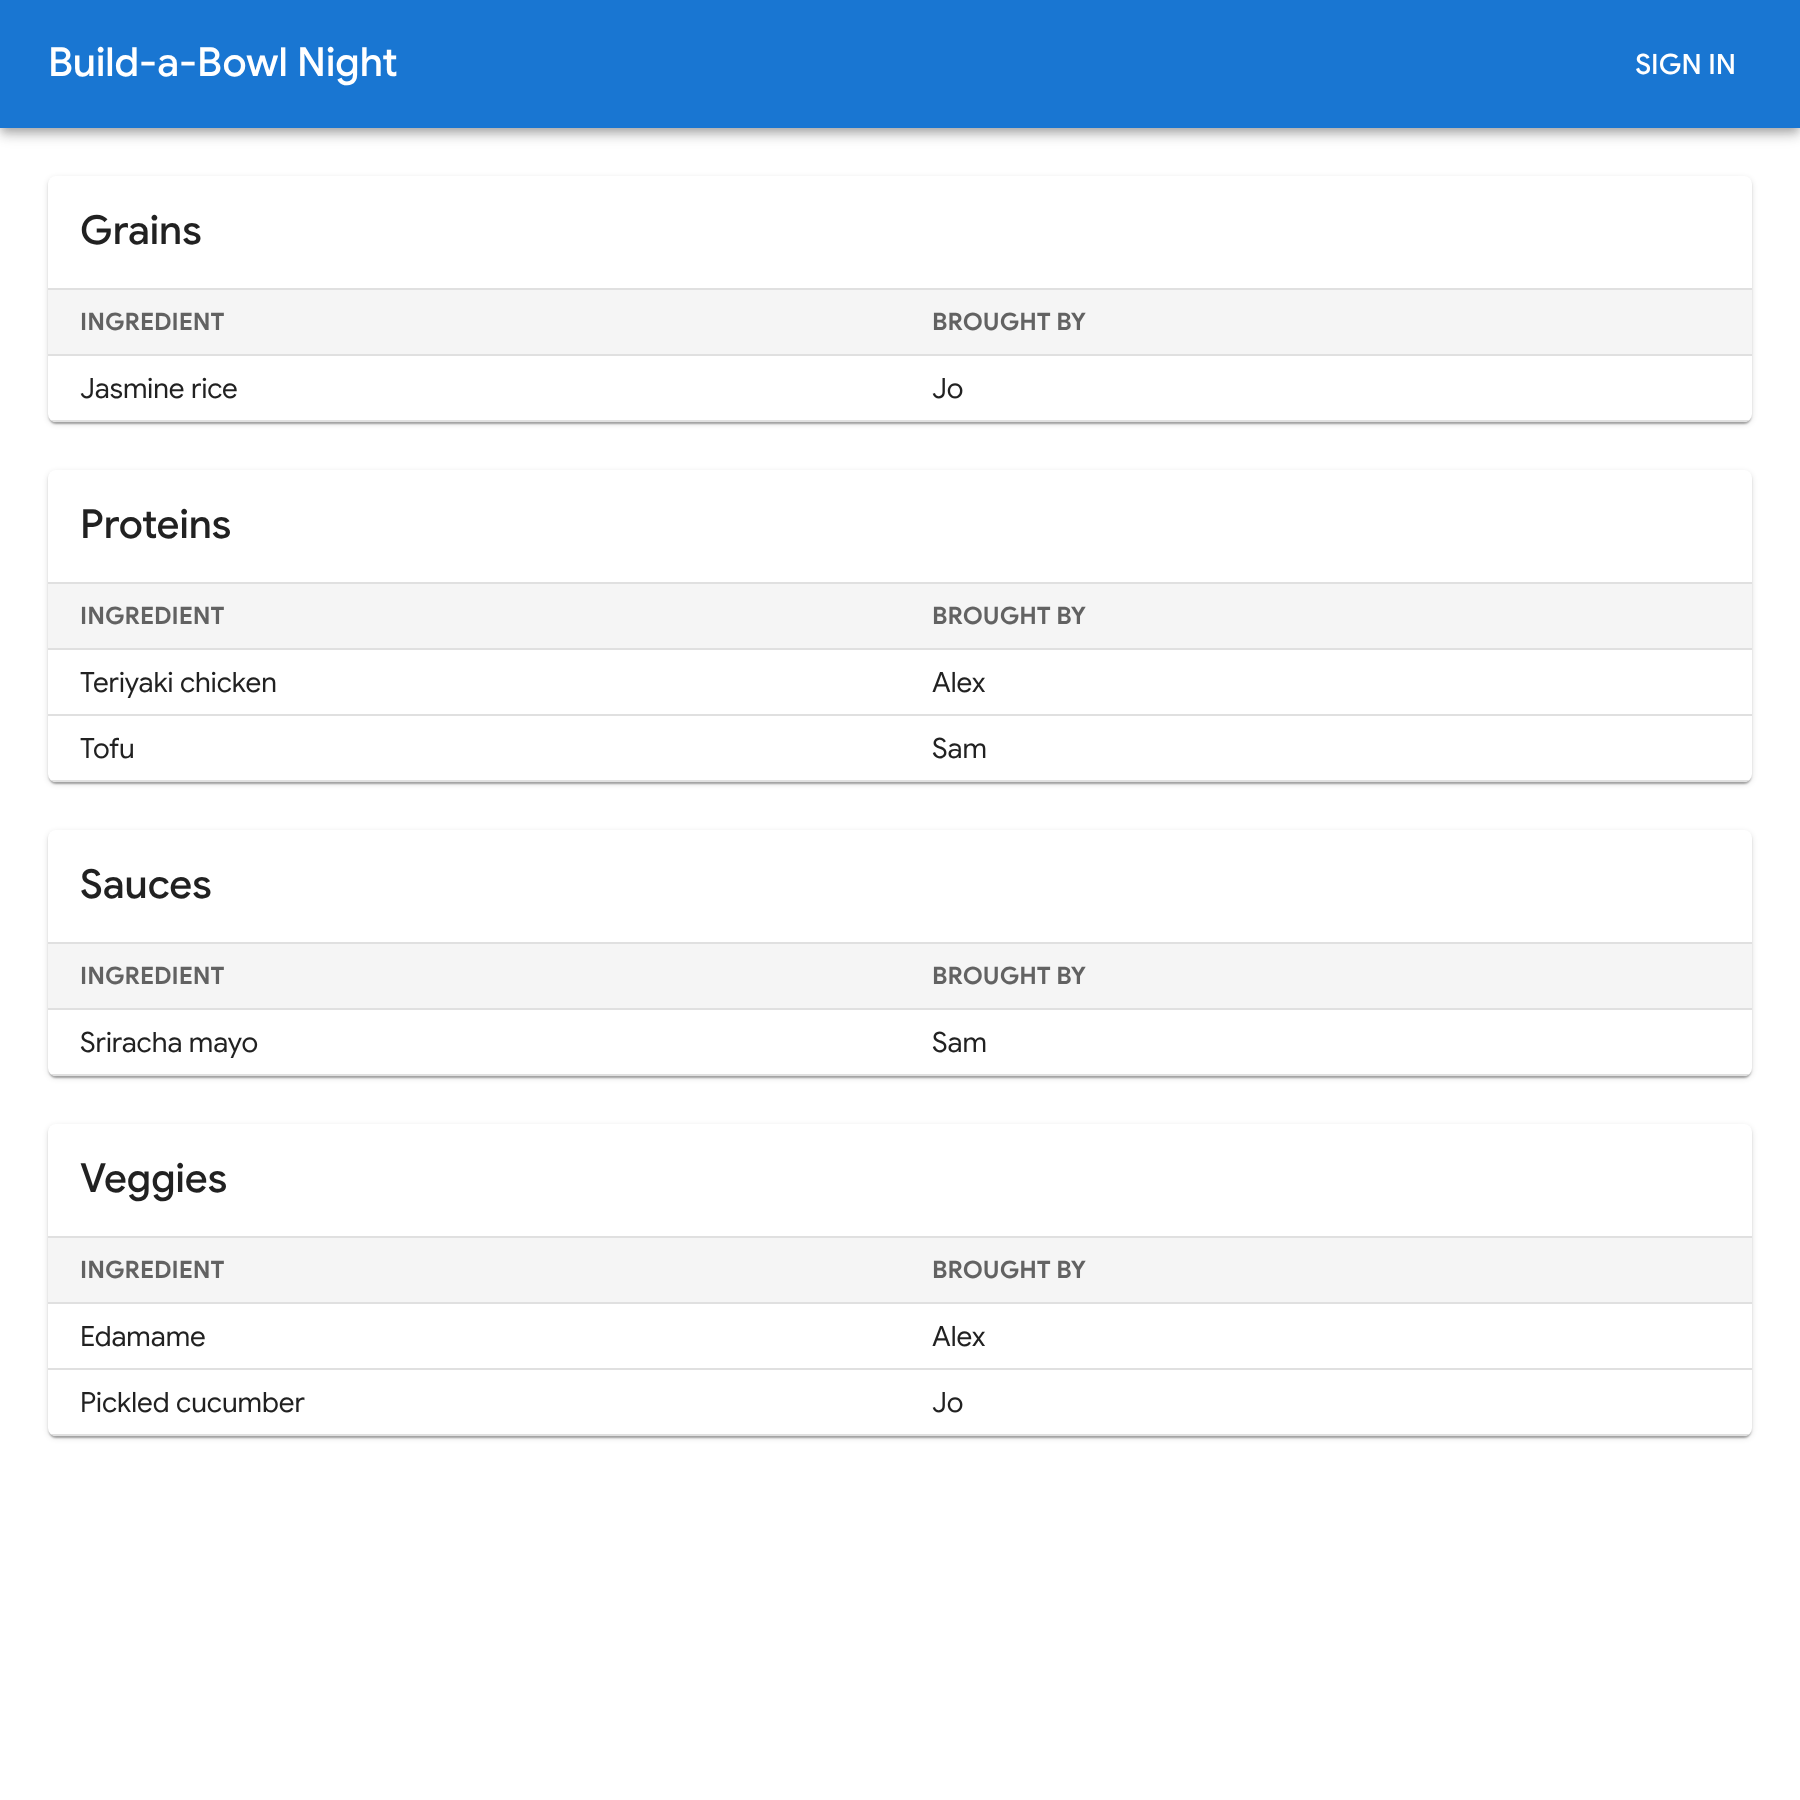
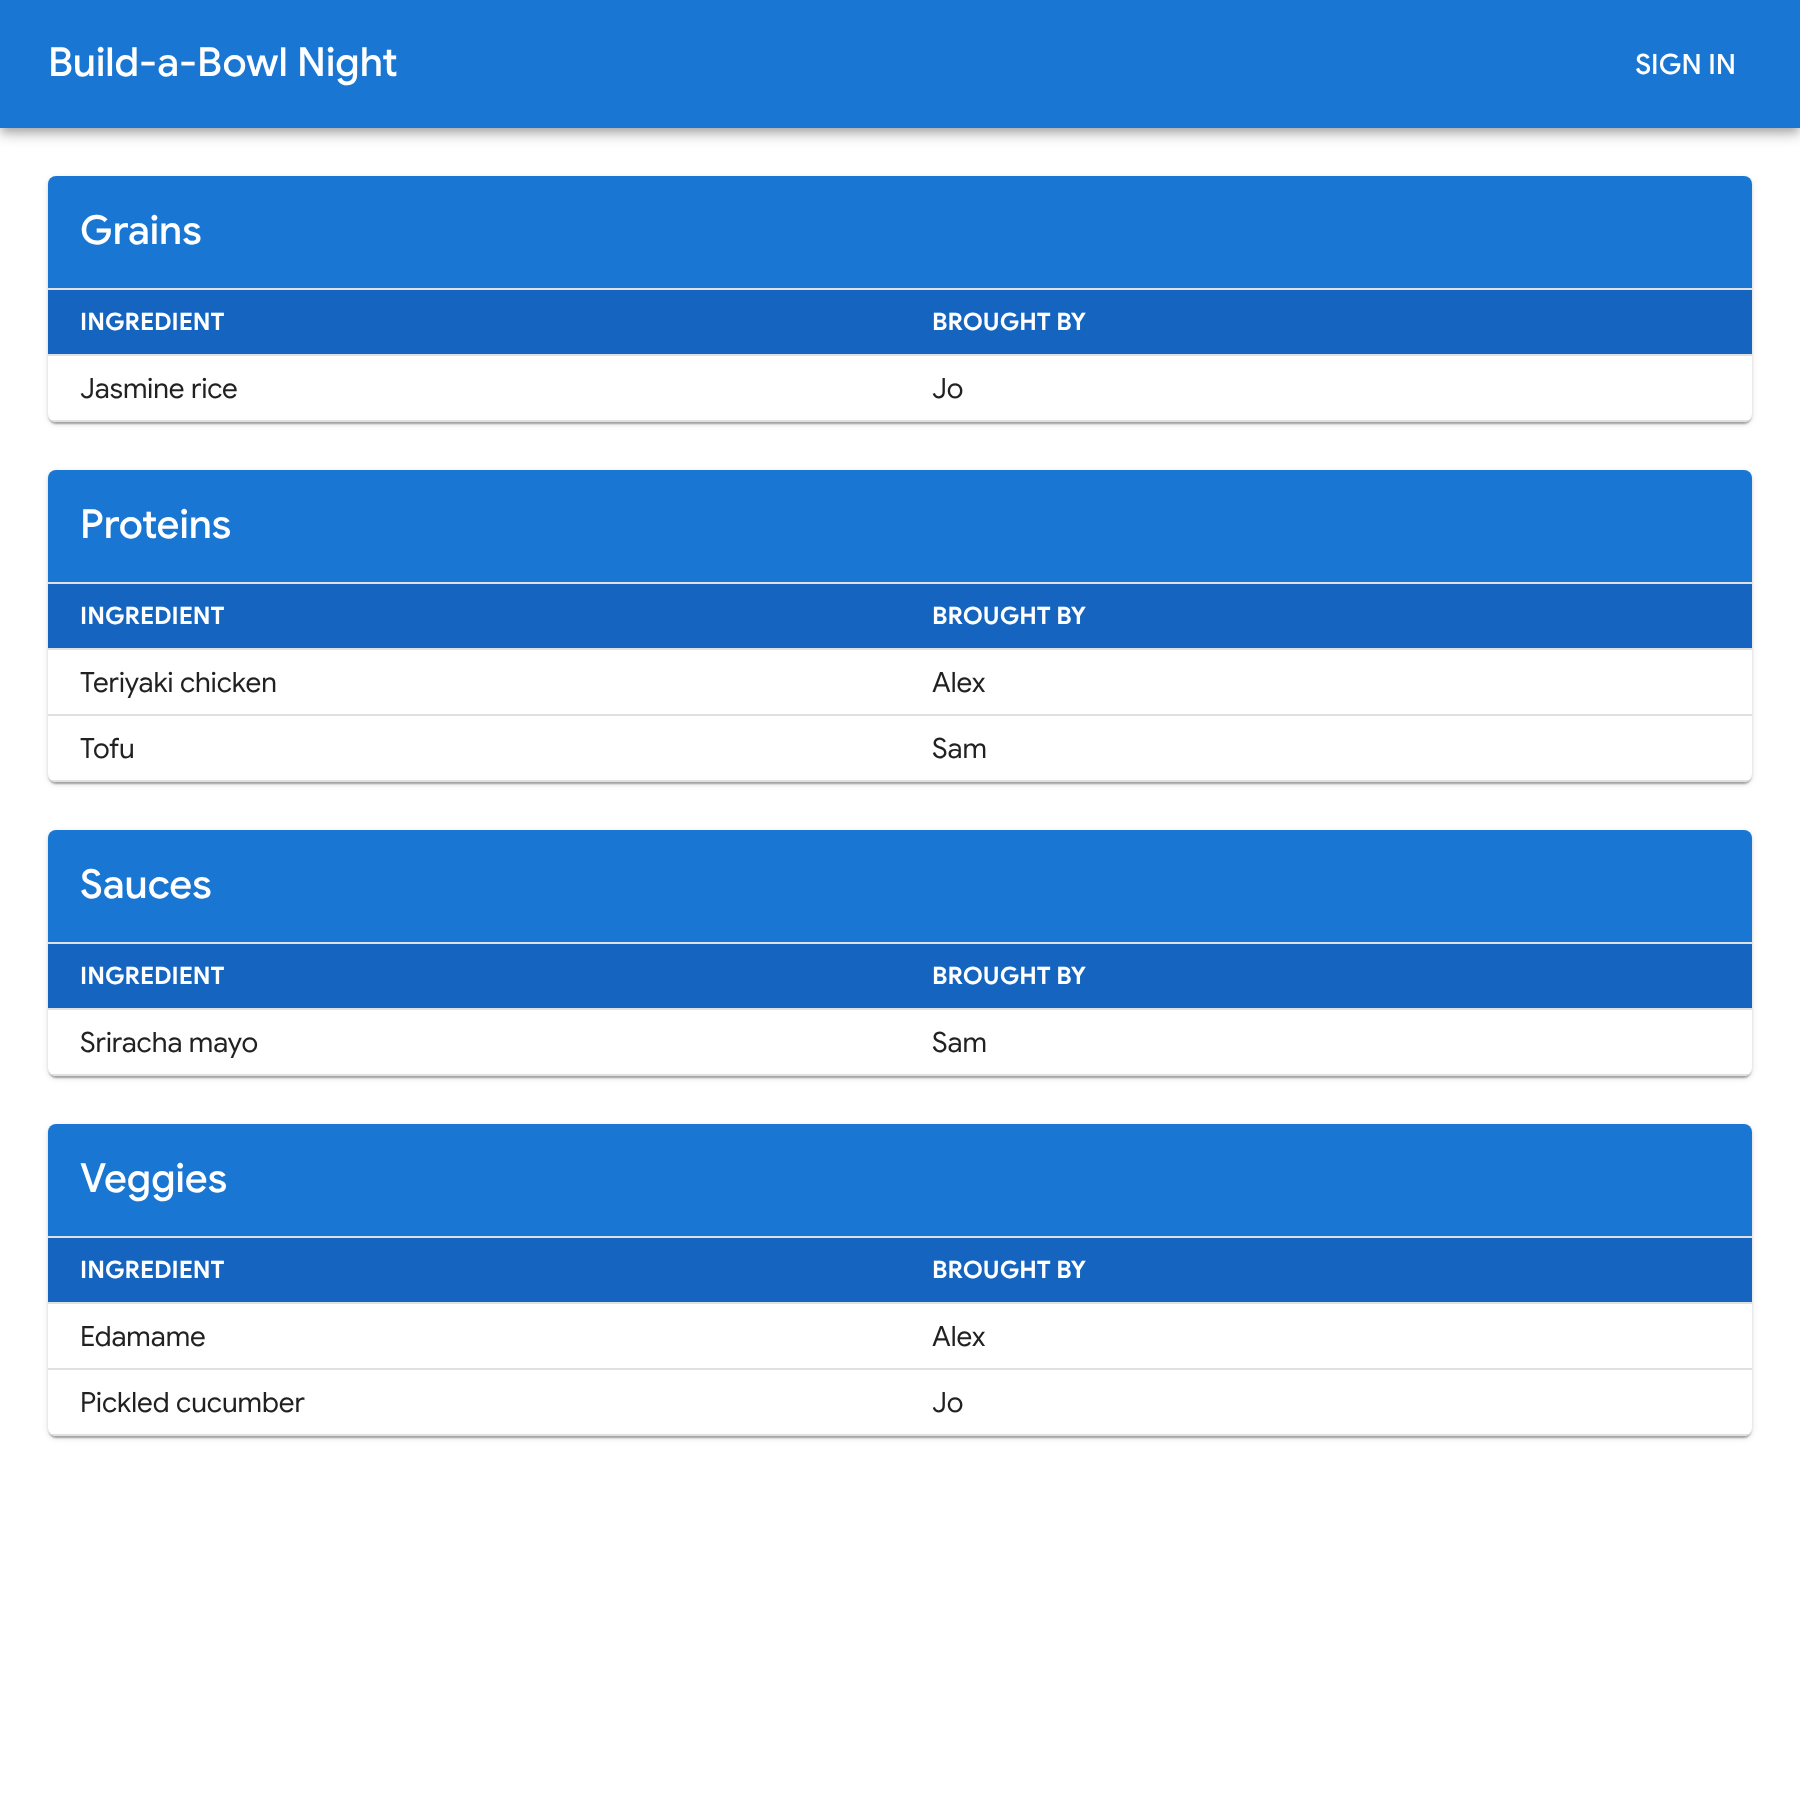
Give category title row an accent color and header row a darker variant
Claude-Session: https://claude.ai/code/session_01YaXshzgAPddr5nf8bECYCv

diff --git a/site/src/components/IngredientTable.tsx b/site/src/components/IngredientTable.tsx
@@ -15,12 +15,12 @@ interface IngredientTableProps {
   ingredients: Ingredient[];
 }
 
-// Style for the column header cells: small, bold, all-caps text.
+// Style for the column header cells: small, bold, all-caps text on the accent color.
 const headerCellSx = {
   typography: "caption",
   fontWeight: "bold",
   textTransform: "uppercase",
-  color: "text.secondary",
+  color: "primary.contrastText",
 } as const;
 
 // Vertical stack of tables, one per category, each titled with its category name.
@@ -35,16 +35,16 @@ export default function IngredientTable({ ingredients }: IngredientTableProps) {
         <TableContainer key={category} component={Paper}>
           <Table size="small" sx={{ tableLayout: "fixed" }}>
             <TableHead>
-              {/* Title row spanning both columns, separated from the column headers by a normal row border. */}
-              <TableRow>
-                <TableCell colSpan={2} sx={{ py: 1.5 }}>
+              {/* Title row in the accent color, spanning both columns. */}
+              <TableRow sx={{ bgcolor: "primary.main" }}>
+                <TableCell colSpan={2} sx={{ py: 1.5, color: "primary.contrastText" }}>
                   <Typography variant="h6" component="h2">
                     {category}s
                   </Typography>
                 </TableCell>
               </TableRow>
-              {/* Column headers: shaded, small, bold, all caps. */}
-              <TableRow sx={{ bgcolor: "action.hover" }}>
+              {/* Column headers: a darker shade of the accent color, small, bold, all caps. */}
+              <TableRow sx={{ bgcolor: "primary.dark" }}>
                 <TableCell sx={headerCellSx}>
                   Ingredient
                 </TableCell>
